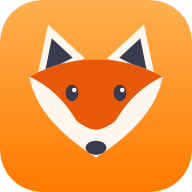
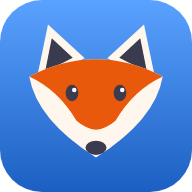
Hernoem naar Mathsapp en maak blauw de hoofdkleur
- Naam Rekenvos vervangen door Mathsapp (titel, manifest, interface)
- Blauw als hoofdkleur, oranje verwijderd uit het kleurenschema
- Icoon met blauwe achtergrond, de vos blijft als mascotte
- Opslagsleutel behouden zodat bestaande voortgang blijft staan
- Versie 0.2.0, zodat de offline cache ververst

Claude-Session: https://claude.ai/code/session_01JKfSBsTbStSJGwwEaag5tf

diff --git a/js/app.js b/js/app.js
@@ -4,7 +4,7 @@ import { state } from './store.js';
 import * as E from './engine.js';
 import { sfx, unlockAudio } from './sound.js';
 
-const VERSION = '0.1.0';
+const VERSION = '0.2.0';
 const BLITZ_SECONDS = 60;
 
 const app = document.getElementById('app');
@@ -49,10 +49,10 @@ function welcomeView() {
   <div class="welcome">
     <div class="mascot huge bounce">🦊</div>
     <h1>Hoi Ma 'Nilla!</h1>
-    <p>Ik ben je rekenvos. Elke dag een paar rondes van twee minuten en je tafels zitten er binnenkort ingebakken.</p>
+    <p>Ik ben je rekenvos. Welkom bij Mathsapp! Elke dag een paar rondes van twee minuten en je tafels zitten er binnenkort ingebakken.</p>
     <p class="muted">Ken je je tafels al een beetje? Doe dan de niveautest, dan sla je over wat je al kent.</p>
     <div class="stack">
-      <button class="btn primary c-orange" data-action="welcome-start">Begin bij het begin</button>
+      <button class="btn primary c-blue" data-action="welcome-start">Begin bij het begin</button>
       <button class="btn ghost" data-action="welcome-test">Doe de niveautest</button>
     </div>
   </div>`;
@@ -63,7 +63,7 @@ function topbar() {
   const activeToday = state.lastDay === store.today();
   return `
   <header class="topbar">
-    <div class="brand"><span class="mascot">🦊</span><span>Rekenvos</span></div>
+    <div class="brand"><span class="mascot">🦊</span><span>Mathsapp</span></div>
     <div class="top-stats">
       <span class="pill streak ${activeToday ? 'on' : ''}" title="Streak">🔥 ${streak}</span>
       <span class="pill xp" title="XP">⚡ ${state.xp}</span>
@@ -84,7 +84,7 @@ function homeView() {
   <div class="home">
     ${topbar()}
     <main class="tab-content">${content}</main>
-    ${ui.tab === 'path' ? `<button class="fab btn primary c-orange" data-action="play">▶ ${E.allDone() ? 'Slim oefenen' : 'Speel verder'}</button>` : ''}
+    ${ui.tab === 'path' ? `<button class="fab btn primary c-blue" data-action="play">▶ ${E.allDone() ? 'Slim oefenen' : 'Speel verder'}</button>` : ''}
     <nav class="tabbar">
       ${tabs.map(([id, icon, label]) => `
         <button class="tab ${ui.tab === id ? 'active' : ''}" data-action="tab" data-tab="${id}">
@@ -112,7 +112,7 @@ function pathView() {
   const installed = window.matchMedia('(display-mode: standalone)').matches;
   let html = '';
   if (deferredInstall && !installed) {
-    html += `<button class="install-banner" data-action="install">📲 Zet Rekenvos op je startscherm</button>`;
+    html += `<button class="install-banner" data-action="install">📲 Zet Mathsapp op je startscherm</button>`;
   }
   html += dailyView();
   let zi = 0;
@@ -163,7 +163,7 @@ function practiceView() {
   return `
   <div class="page">
     <h1>Oefenen</h1>
-    <button class="card c-orange" data-action="practice">
+    <button class="card c-blue" data-action="practice">
       <span class="card-icon">🎯</span>
       <span><b>Slim oefenen</b><small>10 oefeningen uit alles wat je al kent. Je zwakke plekken krijgen voorrang.</small></span>
     </button>
@@ -284,9 +284,9 @@ function tipCard(id) {
 function sheetView() {
   if (!ui.sheet) return '';
   let inner = '';
-  let color = 'orange';
+  let color = 'blue';
   if (ui.sheet.type === 'tip') {
-    inner = `${tipCard(ui.sheet.id)}<button class="btn primary c-orange" data-action="close-sheet">Begrepen</button>`;
+    inner = `${tipCard(ui.sheet.id)}<button class="btn primary c-blue" data-action="close-sheet">Begrepen</button>`;
   } else {
     const node = nodeById(ui.sheet.id);
     color = node.unit.color;
@@ -336,7 +336,7 @@ function settingsView() {
       <input type="file" id="import-file" accept="application/json,.json" hidden>
       <h2>Opnieuw beginnen</h2>
       <button class="btn danger-ghost" data-action="reset">🗑 Alle voortgang wissen</button>
-      <p class="muted small center">Rekenvos ${VERSION} · gemaakt voor Ma 'Nilla</p>
+      <p class="muted small center">Mathsapp ${VERSION} · gemaakt voor Ma 'Nilla</p>
     </div>
   </div>`;
 }
@@ -379,7 +379,7 @@ function startLesson(opts, { replace = false } = {}) {
 
 function renderLesson() {
   const L = ui.lesson;
-  const color = L.node ? L.node.unit.color : { practice: 'orange', blitz: 'gold', mistakes: 'pink', jump: 'blue' }[L.mode];
+  const color = L.node ? L.node.unit.color : { practice: 'blue', blitz: 'gold', mistakes: 'pink', jump: 'indigo' }[L.mode];
   if (L.intro) {
     app.innerHTML = `
     <div class="lesson c-${color}">
@@ -696,7 +696,7 @@ function resultView() {
       <div class="bar-track"><div class="bar-fill" style="width:${Math.min(100, (done / goal) * 100)}%"></div></div>
     </div>
     <div class="stack result-actions">
-      ${r.actions.map((a, i) => `<button class="btn ${i === 0 ? 'primary c-orange' : 'ghost'}" data-action="${a.action}" ${a.data !== undefined ? `data-unit="${a.data}"` : ''} data-from="result">${a.label}</button>`).join('')}
+      ${r.actions.map((a, i) => `<button class="btn ${i === 0 ? 'primary c-blue' : 'ghost'}" data-action="${a.action}" ${a.data !== undefined ? `data-unit="${a.data}"` : ''} data-from="result">${a.label}</button>`).join('')}
       <button class="btn ghost" data-action="done">Klaar voor nu</button>
     </div>
   </div>`;
@@ -709,7 +709,7 @@ function quitLesson() {
     title: 'Stoppen?',
     text: 'Deze ronde telt dan niet mee. Wat je al juist had, onthoud ik wel.',
     buttons: [
-      { label: 'Verder spelen', cls: 'primary c-orange' },
+      { label: 'Verder spelen', cls: 'primary c-blue' },
       {
         label: 'Stoppen', cls: 'ghost', onClick: () => {
           clearTimers(L);
@@ -868,7 +868,7 @@ const actions = {
       title: 'Alles wissen?',
       text: 'Je XP, streak en alles wat je geleerd hebt, verdwijnt. Dit kan je niet ongedaan maken.',
       buttons: [
-        { label: 'Toch niet', cls: 'primary c-orange' },
+        { label: 'Toch niet', cls: 'primary c-blue' },
         { label: 'Ja, wis alles', cls: 'danger', onClick: () => { store.resetAll(); toast('Alles gewist. Frisse start!'); render(); } },
       ],
     });
@@ -962,7 +962,7 @@ function closeModal() {
 }
 
 function confetti() {
-  const colors = ['#FF8A1F', '#1CB0F6', '#A65CF2', '#FF5C9A', '#14C3B0', '#4CC93A', '#FFC21A'];
+  const colors = ['#2F80ED', '#5A67D8', '#A65CF2', '#FF5C9A', '#14C3B0', '#4CC93A', '#FFC21A'];
   const box = document.createElement('div');
   box.className = 'confetti';
   for (let i = 0; i < 60; i++) {

diff --git a/css/style.css b/css/style.css
@@ -19,16 +19,16 @@
   --bad: #FF4B5C;
   --bad-d: #D9283B;
   --bad-bg: #FFE1E3;
-  --c: #FF8A1F;
-  --cd: #E06B00;
-  --cl: #FFE9D3;
+  --c: #2F80ED;
+  --cd: #1C5FC2;
+  --cl: #DCEBFF;
   --radius: 18px;
   --safe-b: env(safe-area-inset-bottom, 0px);
   --safe-t: env(safe-area-inset-top, 0px);
 }
 
-.c-orange { --c: #FF8A1F; --cd: #E06B00; --cl: #FFE9D3; }
-.c-blue   { --c: #1CB0F6; --cd: #1290CF; --cl: #D6F1FF; }
+.c-blue   { --c: #2F80ED; --cd: #1C5FC2; --cl: #DCEBFF; }
+.c-indigo { --c: #5A67D8; --cd: #3F4BB3; --cl: #E3E6FF; }
 .c-purple { --c: #A65CF2; --cd: #8540CF; --cl: #EFE1FF; }
 .c-pink   { --c: #FF5C9A; --cd: #DB3C78; --cl: #FFE0EC; }
 .c-teal   { --c: #14C3B0; --cd: #0C9D8E; --cl: #D3F7F3; }
@@ -121,7 +121,7 @@ p { line-height: 1.45; }
   position: absolute; left: 50%; transform: translateX(-50%);
   bottom: calc(76px + var(--safe-b));
   width: auto; min-width: 230px;
-  box-shadow: 0 8px 24px rgba(224, 107, 0, 0.3);
+  box-shadow: 0 8px 24px rgba(28, 95, 194, 0.3);
   z-index: 5;
 }
 .fab:active { transform: translateX(-50%) translateY(3px); }
@@ -139,7 +139,7 @@ p { line-height: 1.45; }
 .install-banner {
   display: block; width: calc(100% - 32px); margin: 14px 16px 0;
   padding: 12px; border-radius: var(--radius);
-  background: #1CB0F6; color: #fff; font-weight: 900; border-bottom: 4px solid #1290CF;
+  background: var(--c); color: #fff; font-weight: 900; border-bottom: 4px solid var(--cd);
 }
 
 /* ---------- Pad ---------- */

diff --git a/js/data.js b/js/data.js
@@ -109,7 +109,7 @@ export const TIPS = {
 //   formats: welke vraagvormen mogen voorkomen
 export const UNITS = [
   {
-    id: 'u1', title: 'Makkelijke tafels', subtitle: 'Tafels van 1, 2, 5 en 10', color: 'orange',
+    id: 'u1', title: 'Makkelijke tafels', subtitle: 'Tafels van 1, 2, 5 en 10', color: 'blue',
     nodes: [
       { id: 'u1n1', title: '× 1 en × 10', icon: '1', mul: [1, 10], tip: 't1_10' },
       { id: 'u1n2', title: 'Tafel van 2', icon: '2', mul: [2], tip: 't2' },
@@ -119,7 +119,7 @@ export const UNITS = [
     ],
   },
   {
-    id: 'u2', title: 'Middelste tafels', subtitle: 'Tafels van 3, 4 en 6', color: 'blue',
+    id: 'u2', title: 'Middelste tafels', subtitle: 'Tafels van 3, 4 en 6', color: 'teal',
     nodes: [
       { id: 'u2n1', title: 'Tafel van 3', icon: '3', mul: [3], tip: 't3' },
       { id: 'u2n2', title: 'Tafel van 4', icon: '4', mul: [4], tip: 't4' },
@@ -149,7 +149,7 @@ export const UNITS = [
     ],
   },
   {
-    id: 'u5', title: 'Delen, deel 1', subtitle: 'Delen door 2, 3, 4, 5 en 10', color: 'teal',
+    id: 'u5', title: 'Delen, deel 1', subtitle: 'Delen door 2, 3, 4, 5 en 10', color: 'indigo',
     nodes: [
       { id: 'u5n1', title: 'Delen door 2 en 10', icon: ':', div: [2, 10], tip: 'delen' },
       { id: 'u5n2', title: 'Delen door 5', icon: ':5', div: [5], tip: 'delen5' },

diff --git a/js/store.js b/js/store.js
@@ -1,6 +1,7 @@
 // Alle voortgang wordt lokaal in de browser bewaard (localStorage).
 // Exporteren en importeren als JSON-bestand dient als back-up.
 
+// Oude naam bewust behouden, anders ben je je voortgang kwijt.
 const KEY = 'rekenvos.v1';
 
 function fresh() {
@@ -91,7 +92,7 @@ export function exportBackup() {
   const blob = new Blob([JSON.stringify(state, null, 2)], { type: 'application/json' });
   const a = document.createElement('a');
   a.href = URL.createObjectURL(blob);
-  a.download = `rekenvos-backup-${today()}.json`;
+  a.download = `mathsapp-backup-${today()}.json`;
   document.body.appendChild(a);
   a.click();
   a.remove();
@@ -101,7 +102,7 @@ export function exportBackup() {
 export async function importBackup(file) {
   const data = JSON.parse(await file.text());
   if (!data || typeof data !== 'object' || data.version !== 1 || typeof data.facts !== 'object') {
-    throw new Error('Dit is geen geldige Rekenvos-back-up.');
+    throw new Error('Dit is geen geldige Mathsapp-back-up.');
   }
   state = merge(fresh(), data);
   save();

diff --git a/index.html b/index.html
@@ -3,9 +3,9 @@
 <head>
   <meta charset="utf-8">
   <meta name="viewport" content="width=device-width, initial-scale=1, viewport-fit=cover">
-  <meta name="theme-color" content="#FF8A1F">
-  <meta name="description" content="Rekenvos: tafels en hoofdrekenen oefenen, speels en in korte rondes.">
-  <title>Rekenvos</title>
+  <meta name="theme-color" content="#2F80ED">
+  <meta name="description" content="Mathsapp: tafels en hoofdrekenen oefenen, speels en in korte rondes.">
+  <title>Mathsapp</title>
   <link rel="manifest" href="manifest.webmanifest">
   <link rel="icon" href="icons/icon.svg" type="image/svg+xml">
   <link rel="apple-touch-icon" href="icons/icon-192.png">
@@ -14,7 +14,7 @@
 </head>
 <body>
   <div id="app"></div>
-  <noscript>Rekenvos heeft JavaScript nodig.</noscript>
+  <noscript>Mathsapp heeft JavaScript nodig.</noscript>
   <script type="module" src="js/app.js"></script>
 </body>
 </html>

diff --git a/sw.js b/sw.js
@@ -1,6 +1,6 @@
 // Service worker: bewaart de hele app op de gsm zodat ze offline werkt.
 // Verhoog VERSION bij elke wijziging, dan haalt de app de nieuwe bestanden op.
-const VERSION = 'rekenvos-0.1.0';
+const VERSION = 'mathsapp-0.2.0';
 const FILES = [
   './',
   'index.html',

diff --git a/README.md b/README.md
@@ -1,4 +1,4 @@
-# 🦊 Rekenvos
+# 🦊 Mathsapp
 
 Een persoonlijke rekenapp in Duolingo-stijl: tafels, delingen en hoofdrekenen,
 in rondes van twee minuten. Werkt offline en installeer je op je Android-gsm
@@ -12,13 +12,13 @@ als een gewone app.
    `/ (root)`, en klik op *Save*. Na een minuutje staat de app op
    **https://benzken.github.io/test/**
 2. **Openen in Chrome** op je gsm via die link.
-3. **Installeren:** tik op de knop "Zet Rekenvos op je startscherm" in de app,
+3. **Installeren:** tik op de knop "Zet Mathsapp op je startscherm" in de app,
    of kies in het Chrome-menu (⋮) voor **App installeren** /
    **Toevoegen aan startscherm**.
 
-Daarna start je Rekenvos gewoon vanaf je startscherm, ook zonder internet.
+Daarna start je Mathsapp gewoon vanaf je startscherm, ook zonder internet.
 
-## Wat zit erin (versie 0.1)
+## Wat zit erin (versie 0.2)
 
 - **Leerpad met 7 units:** tafels van 1 tot 12, delen door 2 tot 12, en een
   eindunit met alles door elkaar.
